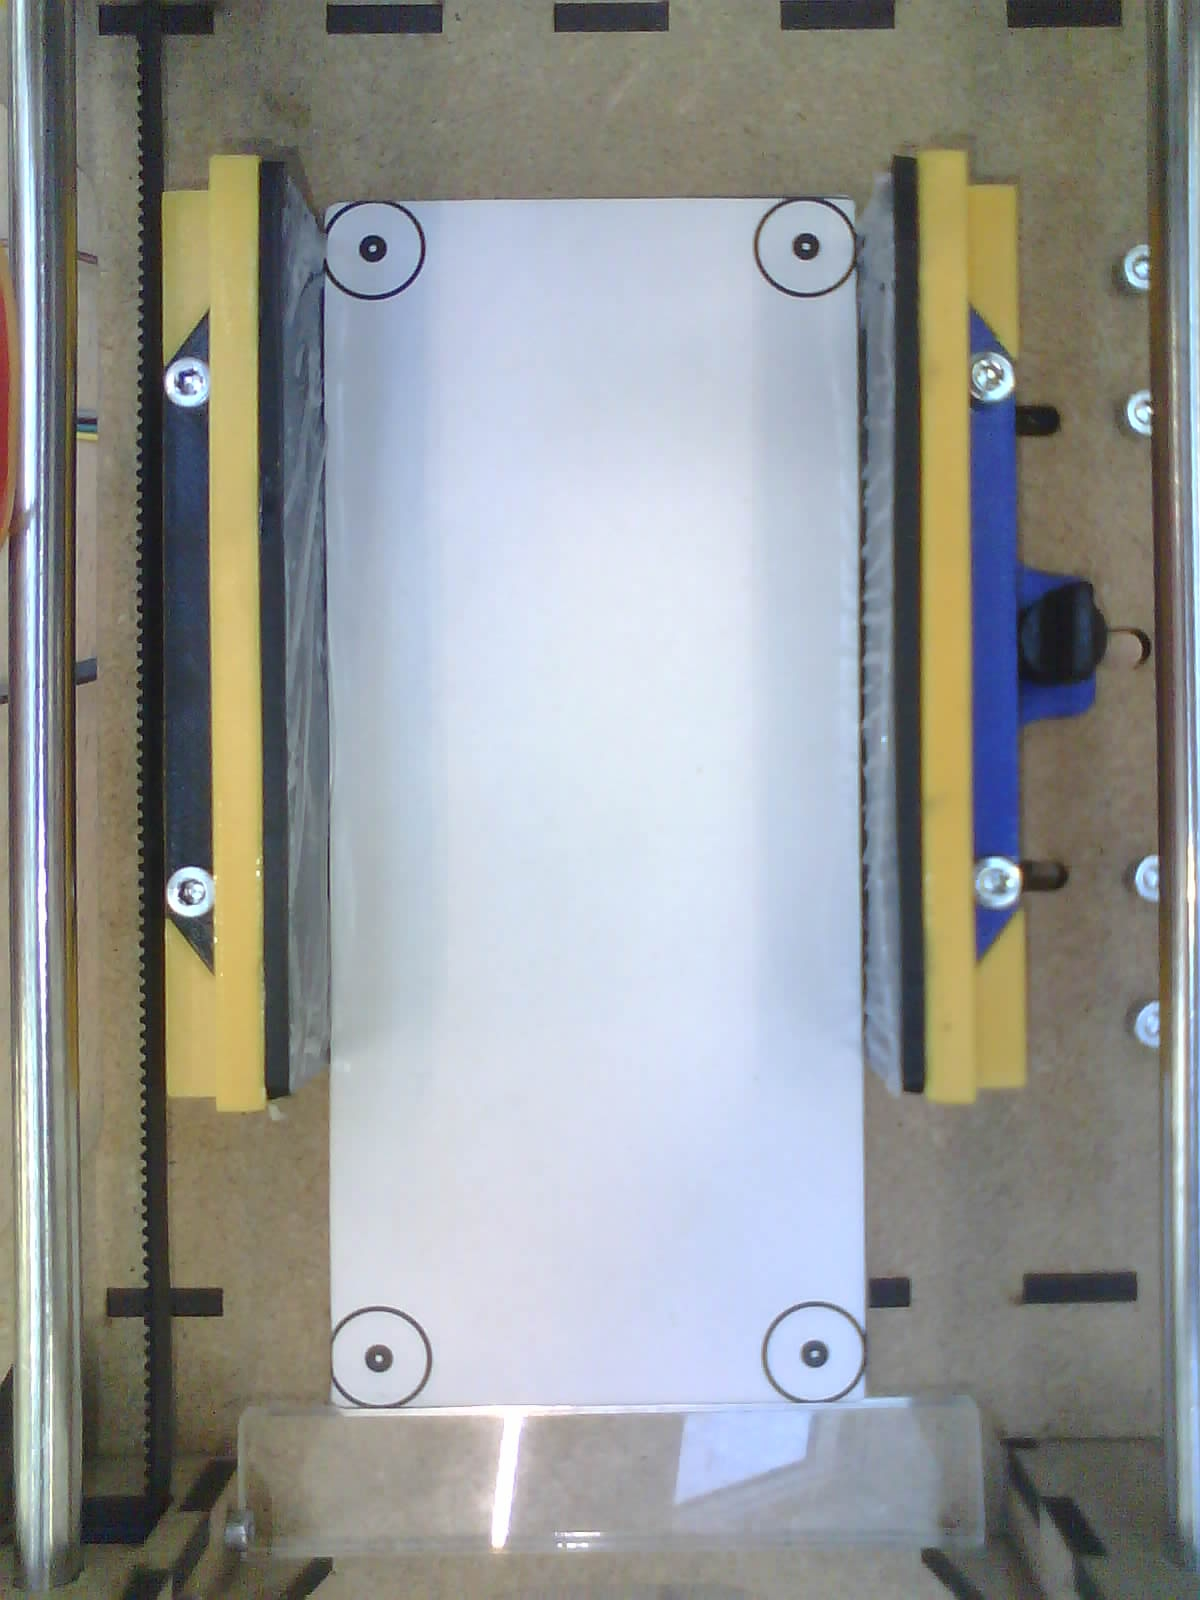
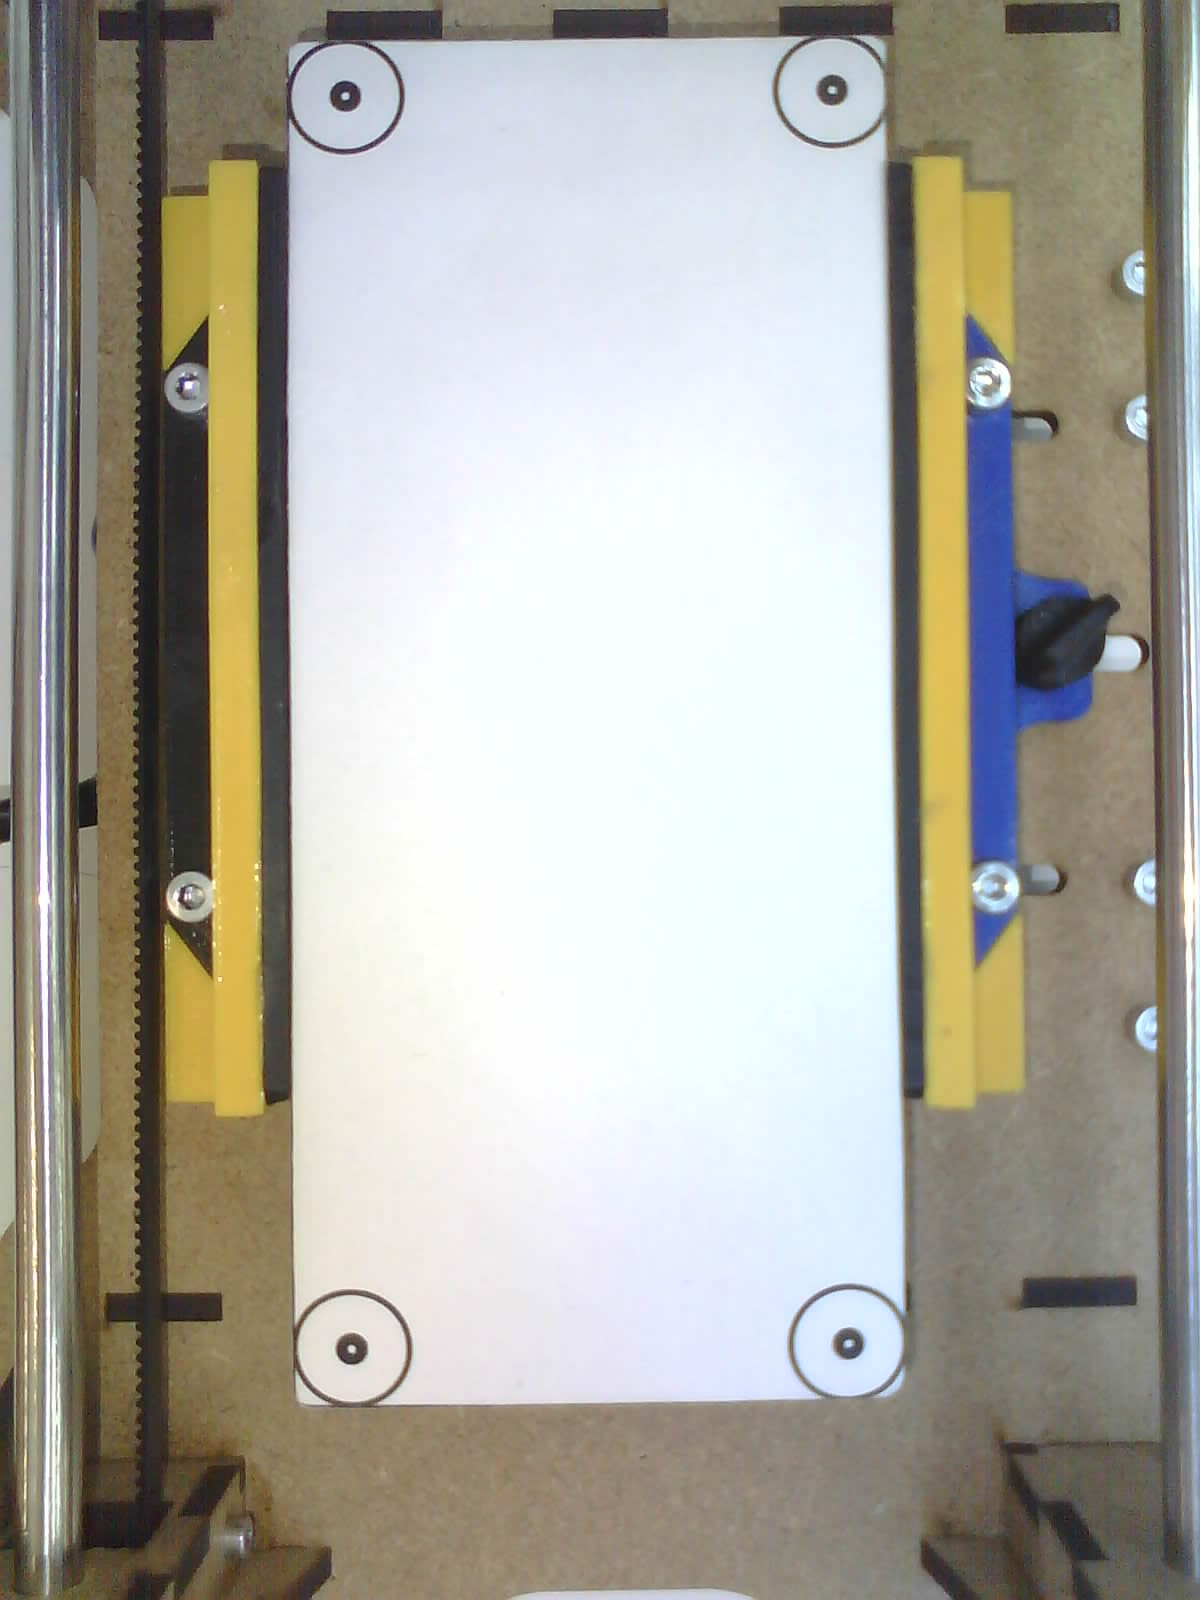
👌 IMPROVE: latest calibration as of 2024.05.30 16:30

diff --git a/code/CVserver/parameters.py b/code/CVserver/parameters.py
@@ -4,27 +4,27 @@
 
 # filtering points outside of remote area
 # measured in steps in the plotter's coordinates system
-REMOTE_AREA_ORIGIN = (20, 170)  # top left
-REMOTE_AREA_LIMIT = (360, 1020)  # bottom right
+REMOTE_AREA_ORIGIN = (22, 123)  # top left
+REMOTE_AREA_LIMIT = (374, 953)  # bottom right
 
 # perspective correction
 
-# carmera corners measured in pixels in the camera's coordinates system
+# camera corners measured in pixels in the camera's coordinates system
 # from the fake remote markers
 MEASURED_CORNERS = (
-    (372, 248),  # top left
-    (806, 246),  # top right
-    (814, 1354),  # bottom right
-    (378, 1358),  # bottom left
+    (345, 96),  # top left
+    (832, 90),  # top right
+    (849, 1344),  # bottom right
+    (352, 1349),  # bottom left
 )
 
 # remote plotter corners measured in steps in the plotter's coordinates system
 # from the fake remote markers
 ACTUAL_CORNERS = (
-    (35, 189),  # top left
-    (345, 188),  # top right
-    (344, 1010),  # bottom right
-    (33, 1011),  # bottom left
+    (42, 143),  # top left
+    (354, 140),  # top right
+    (354, 933),  # bottom right
+    (44, 933),  # bottom left
 )
 
 # === Edge detection parameters ===
